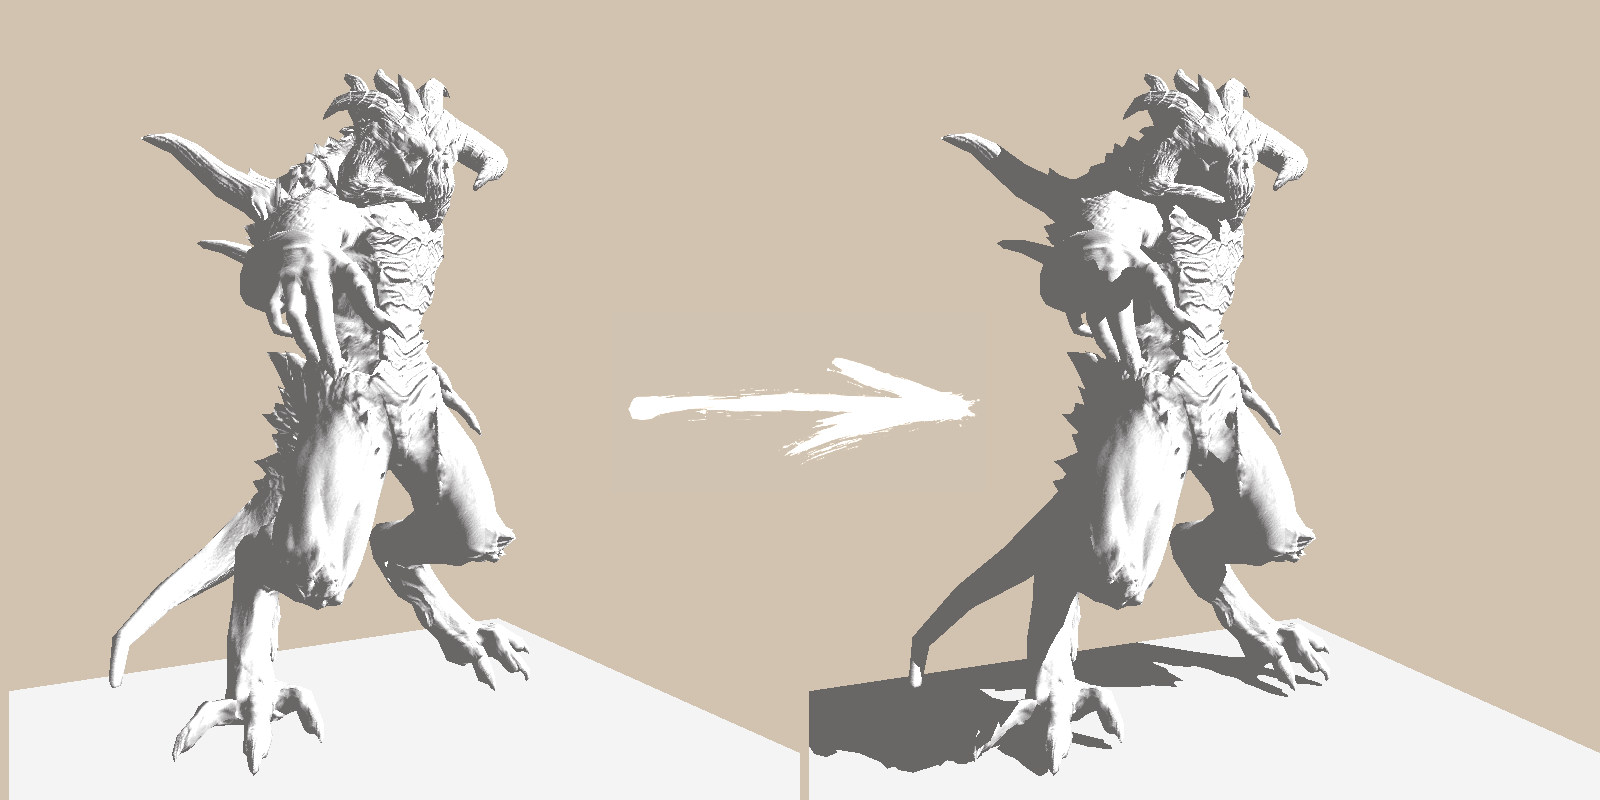
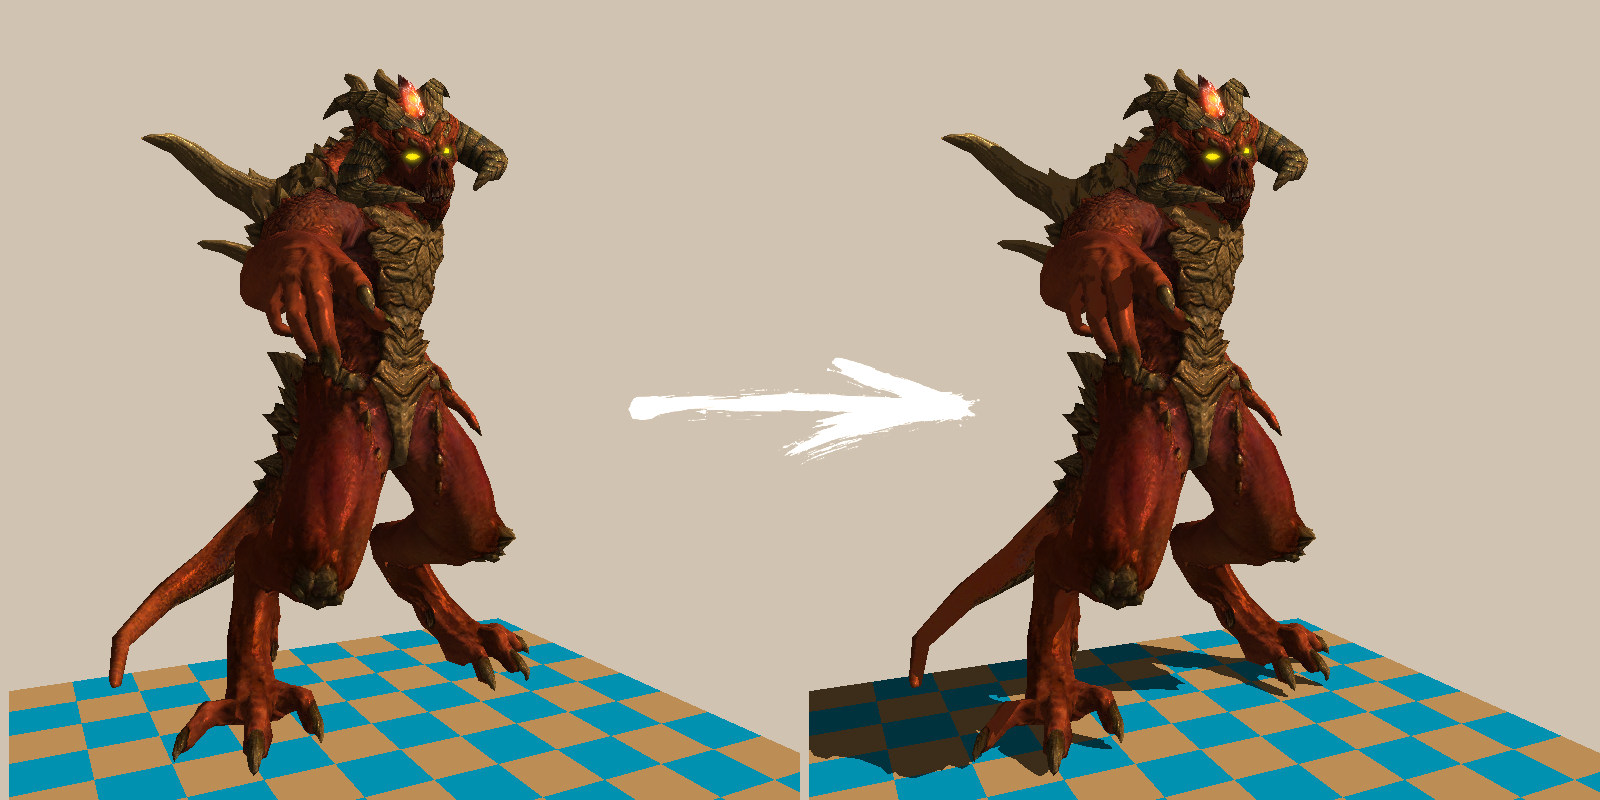
wip

diff --git a/docs/tinyrenderer/shadow.md b/docs/tinyrenderer/shadow.md
@@ -2,11 +2,25 @@
 title: Shadow mapping
 ---
 
-# Attention, work in progress.
+#  (Attention, work in progress) Shadow mapping
 
-# Shadow mapping
+## Introduction
+
+Let us continue talking about lights and shadows.
+In real-time rendering, the Phong reflection model provides a simple yet effective way to simulate how light interacts with surfaces.
+Its strength lies in being entirely local: the color at a point depends only on the material properties, the light direction, and the viewing direction. This locality makes the model extremely cheap to compute, which is why it has been the workhorse of interactive graphics for decades.
+
+However, this same locality is also a limitation. The Phong model cannot account for global effects such as one object blocking light from reaching another.
+As a result, casted shadows — essential for realism and spatial perception — are completely absent.
+To address this, additional techniques are needed.
+One of the most widely used approaches in real-time graphics is shadow mapping, which extends local shading with a global visibility test to determine whether a point lies in light or shadow.
+In this chapter, I want to go from the image on the left to the right one.
 
 [![](shadow/teaser.jpg)](shadow/teaser.jpg)
+
+## A practical recipe
+
+[![](shadow/spaces.jpg)](shadow/spaces.jpg)
 
 ---
 
